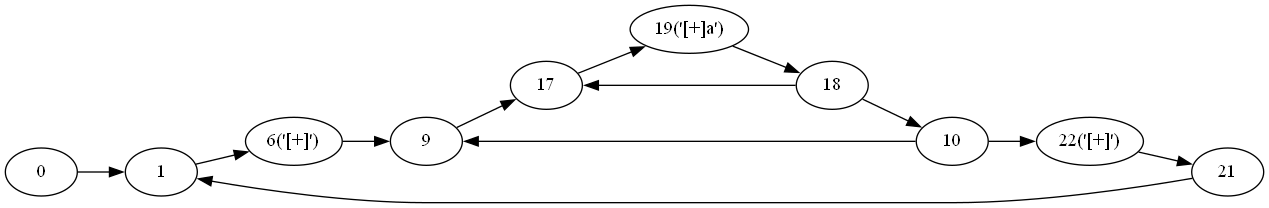
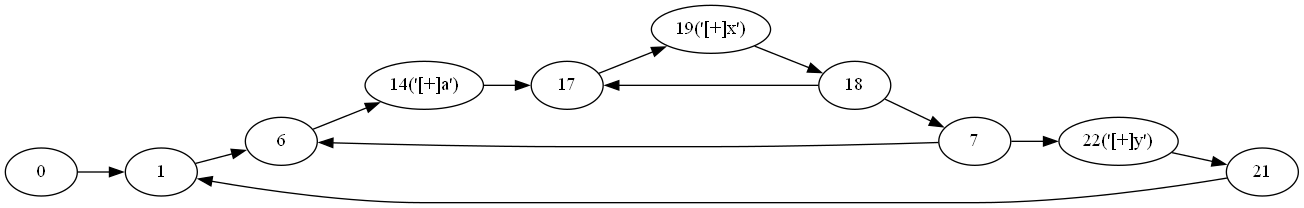
fx

diff --git a/NRegEx/RegExGraphVerifier.cs b/NRegEx/RegExGraphVerifier.cs
@@ -5,6 +5,7 @@
  * license that can be found in the LICENSE file.
  */
 using System.Collections.Concurrent;
+using System.Runtime.CompilerServices;
 
 namespace NRegEx;
 public static class RegExGraphVerifier
@@ -14,18 +15,8 @@ public static class RegExGraphVerifier
         if (nodes.Count > 0)
         {
             var first = nodes[0];
-            nodes.RemoveAt(0);
             nodes.Add(first);
-        }
-        return nodes;
-    }
-    public static List<Node> RightShift(this List<Node> nodes)
-    {
-        if (nodes.Count > 0)
-        {
-            var last = nodes[^1];
-            nodes.RemoveAt(nodes.Count-1);
-            nodes.Insert(0,last);
+            nodes.RemoveAt(0);
         }
         return nodes;
     }
@@ -38,7 +29,7 @@ public static class RegExGraphVerifier
             var eq = true;
             for (int j = 0; j < path2.Count; j++)
             {
-                if (path2[j] != path1[j])
+                if (path2[j].Id != path1[j].Id)
                 {
                     eq = false;
                     break;
@@ -48,6 +39,28 @@ public static class RegExGraphVerifier
             path1.LeftShift();
         }
 
+        return false;
+    }
+
+    public static bool HasPassage(this Node from, Node to)
+    {
+        //TODO:
+        return false;
+    }
+    public static bool HasPassage(this List<Node> nodesMain, List<Node> nodesLocal)
+    {
+        if(nodesMain is not null && nodesLocal is not null 
+            && nodesMain.Count>0 && nodesLocal.Count>0
+            && nodesMain.Count>nodesLocal.Count){
+            var nid1 = nodesMain.Min(n => n.Id);
+            var nid2 = nodesLocal.Min(n => n.Id);
+            for(int i = 0; i < nodesMain.Count; i++)
+                if (nodesMain[0].Id != nid1) nodesMain.LeftShift();
+            for (int i = 0; i < nodesLocal.Count; i++)
+                if (nodesLocal[0].Id != nid2 || nodesLocal[0].IsLink) nodesLocal.LeftShift();
+
+            return nodesMain[0].HasPassage(nodesLocal[0]);
+        }
         return false;
     }
     /// <summary>
@@ -70,6 +83,7 @@ public static class RegExGraphVerifier
             (options & Options.DOT_NL) == Options.DOT_NL);
     public static bool IsCatastrophicBacktrackingPossible(Graph graph, bool withNewLine = true)
     {
+        GraphUtils.ExportAsDot(graph);
         var step = 0;
         var nodeChars = new ConcurrentDictionary<Node, HashSet<int>>();
         var paths = new ConcurrentBag<Path>(graph.Head.Outputs.Select(o => new Path(graph.Head, o)));
@@ -117,14 +131,16 @@ public static class RegExGraphVerifier
                     {
                         var cli = circle_paths[i];
                         var clj = circle_paths[j];
-                        var nli = cli.NodesReversed.ToList();
-                        var nlj = clj.NodesReversed.ToList();
-                        if (nli.IsSubPath(nlj))
+                        var nli = cli.NodesList;
+                        var nlj = clj.NodesList;
+                        if (nli.IsSubPath(nlj) && nlj.HasPassage(nli))
                         {
+                            //看ID最小节点是否互通
                             return true;
                         }
-                        else if (nlj.IsSubPath(nli))
+                        else if (nlj.IsSubPath(nli) && nli.HasPassage(nlj))
                         {
+                            //看ID最小节点是否互通
                             return true;
                         }
                         else if (cli.HasPathTo(clj) || clj.HasPathTo(cli))
@@ -136,11 +152,11 @@ public static class RegExGraphVerifier
                 }
                 if (circle_pairs.Count > 0)
                 {
-                    foreach (var n in circle_pairs)
+                    foreach (var (pi, pj) in circle_pairs)
                     //Parallel.ForEach(pairs,(n,s) =>
                     {
-                        var ri = n.pi.NodeSet.Where(i => !i.IsLink).ToArray();
-                        var rj = n.pj.NodeSet.Where(j => !j.IsLink).ToArray();
+                        var ri = pi.NodeSet.Where(i => !i.IsLink).ToArray();
+                        var rj = pj.NodeSet.Where(j => !j.IsLink).ToArray();
                         foreach (var inode in ri)
                         {
                             foreach (var jnode in rj)

diff --git a/NRegEx/Graph.cs b/NRegEx/Graph.cs
@@ -236,7 +236,7 @@ public class Graph
         return this;
     }
 
-    public Graph ComposeRepeats(Graph graph, int min, int max)
+    public Graph ComposeRepeats(Graph graph, int min, int max, bool useMinMaxEdge)
     {
         var plus = max < 0;
 
@@ -250,21 +250,24 @@ public class Graph
             var g = graph.Copy();
             first ??= g;
             full.Add(g);
+            if (useMinMaxEdge) break;
             if (i >= min) extra.Add(g);
         }
 
         this.Concate(full, plus);
 
         //let first graph's edge remember the min and max repeats
-        if (min > 0 && first != null)
+        if (useMinMaxEdge && min > 0 && first != null)
         {
             if (max < min) max = min;
             this.Edges.Add(new(first.Tail, first.Head, min, max));
         }
-
-        for (int i = 0; i < extra.Count; i++)
+        if (!useMinMaxEdge)
         {
-            this.Edges.Add(new(extra[i].Head, this.Tail));
+            for (int i = 0; i < extra.Count; i++)
+            {
+                this.Edges.Add(new(extra[i].Head, this.Tail));
+            }
         }
         return this;
     }

diff --git a/NRegEx/RegExGraphBuilder.cs b/NRegEx/RegExGraphBuilder.cs
@@ -11,6 +11,7 @@ public class RegExGraphBuilder
     public readonly Dictionary<int, Graph> BackRefPoints = new();
     public readonly Dictionary<int, GroupType> GroupTypes = new();
     public readonly ListLookups<int, Graph> ConditionsGraphs = new();
+    public bool UseMinMaxEdge = false;
     public Graph Build(RegExNode node, int id = 0, bool caseInsensitive = false)
         => GraphUtils.Reform(BuildInternal(node, caseInsensitive), id);
     protected Graph BuildInternal(RegExNode node, bool caseInsensitive = false)
@@ -192,7 +193,7 @@ public class RegExGraphBuilder
                     if (node.Children.Count > 0)
                         graph.ComposeRepeats(BuildInternal(node.Children[0]),
                             node.Min.GetValueOrDefault(),
-                            node.Max.GetValueOrDefault());
+                            node.Max.GetValueOrDefault(),this.UseMinMaxEdge);
                 }
                 break;
             case TokenTypes.BeginLine:

diff --git a/NRegEx/Path.cs b/NRegEx/Path.cs
@@ -93,14 +93,11 @@ public class Path
             var list = this.ListTail;
             while (list != null)
             {
+                nodes.Add(new(list.Node));
                 if (list == target)
                 {
                     path = new(nodes, isCircle);
                     break;
-                }
-                else
-                {
-                    nodes.Add(new(list.Node));
                 }
                 list = list.Previous;
             }
@@ -124,6 +121,8 @@ public class Path
             }
         }
     }
+    protected List<Node>? nodes = null;
+    public List<Node> NodesList => this.nodes ??= this.NodesReversed.Reverse().ToList();
     public IEnumerable<LinkedNode> LinkedNodesReversed
     {
         get

diff --git a/NRegex.Test/BasicUnitTests.cs b/NRegex.Test/BasicUnitTests.cs
@@ -488,6 +488,9 @@ public class BasicUnitTests
     {
         var bad_ones = new string[]
         {
+            "(ax+)+y",//NOT
+            
+            "foo|(x+ax+)+y",//OK
             "^(a+)+$", //OK
             "^(a|a?)+$", //OK
             "(x+x+)+y", //OK
